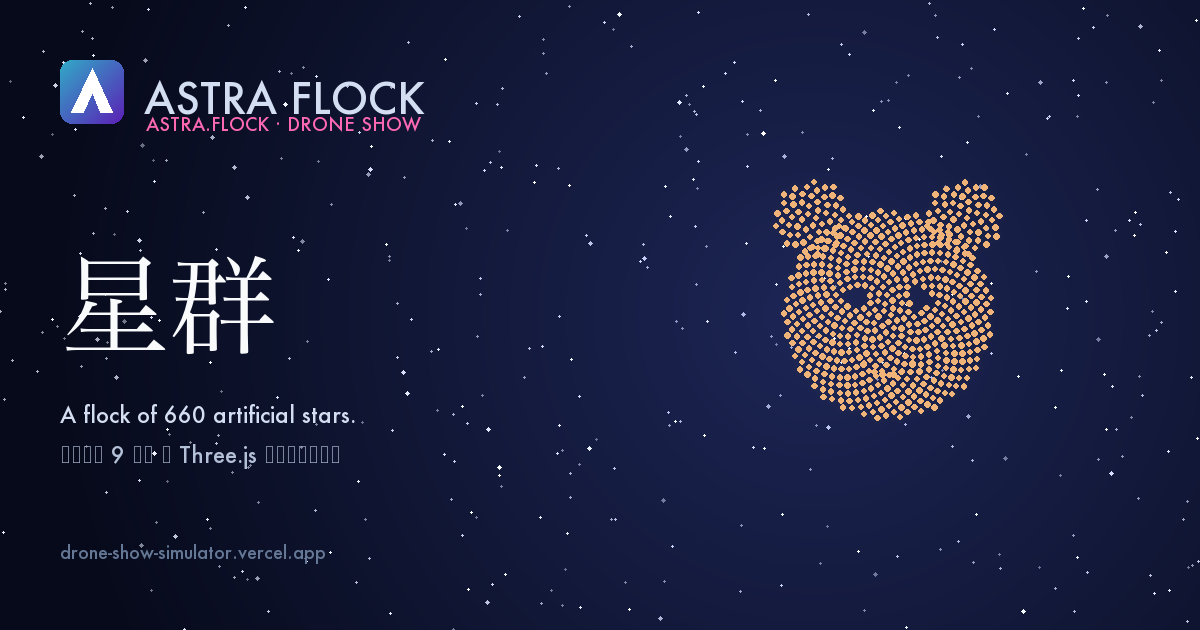
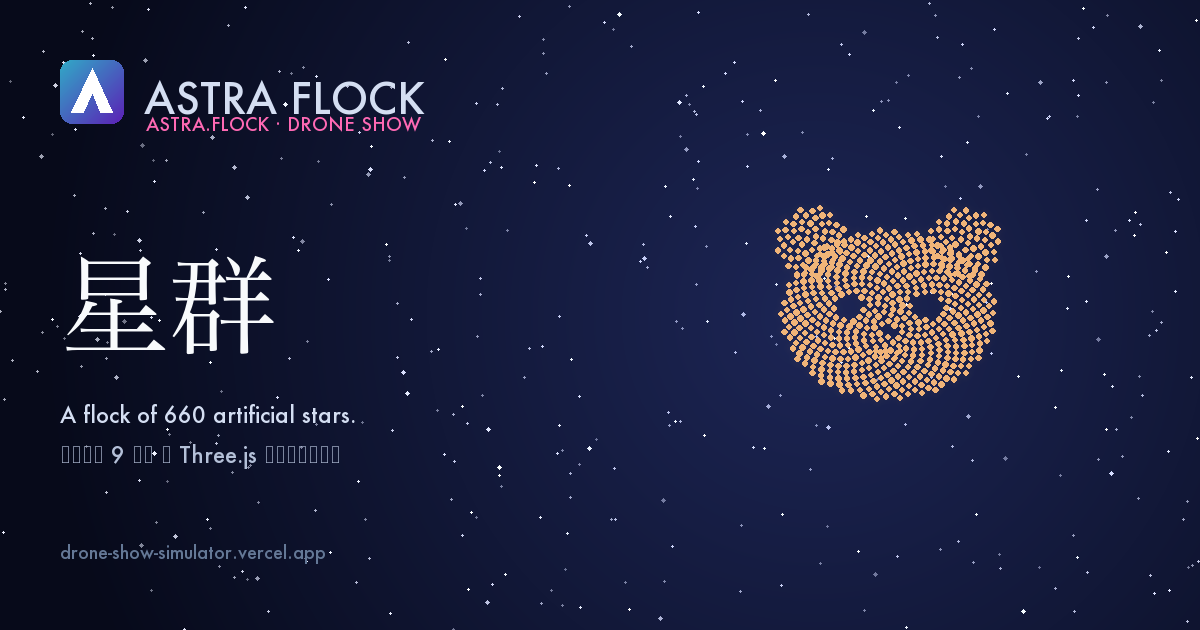
feat(bear): Rilakkuma-style wide oval face + spaced big eyes + tiny nose + M-mouth
- fBear を横長楕円ヘッド (rx=48, ry=38) に変更。円ではなく幅 > 高さに
  することで Rilakkuma 風のずんぐり感を再現
- 目のボイドを左右に離し (cx=±16)、r=5.5 に拡大 (間隔を広く大きく)
- 鼻の小さなドットボイド (r=2.5) を中央下に追加
- 耳を大型化 (r=15) + 位置を外寄り (cx=±32) に移動
- 口を M 字型に (2 つの小さな v が並ぶ形、6 点)
- OG 画像も新しい Rilakkuma 熊に差し替え
- choreography プレビューは window.AstraFlock 経由で共有されるため自動追従

Changed region(s): [[0.6475, 0.2714, 0.8325, 0.6635]]

diff --git a/formations.js b/formations.js
@@ -140,22 +140,27 @@
     return out;
   }
   function fBear(n) {
-    // Kawaii bear face: round head + small eye dots (voids) + curved smile.
+    // Rilakkuma-style kawaii bear face: wide oval head + rounded ears +
+    // big eye dots (voids) + tiny nose void + subtle M-shaped mouth drones.
     const out = new Float32Array(n * 3);
-    const head = { cx: 0, cy: 0, r: 42 };
+    // Head is an ELLIPSE (wider than tall) for that signature round-oval silhouette
+    const head = { cx: 0, cy: 0, rx: 48, ry: 38 };
     const voids = [
-      { cx: -12, cy: 6, r: 4 },
-      { cx:  12, cy: 6, r: 4 },
+      { cx: -16, cy: 4,  r: 5.5 }, // left eye (big, well-spaced)
+      { cx:  16, cy: 4,  r: 5.5 }, // right eye
+      { cx:   0, cy: -6, r: 2.5 }, // tiny nose dot
     ];
     const ears = [
-      { cx: -28, cy: 36, r: 14 },
-      { cx:  28, cy: 36, r: 14 },
+      { cx: -32, cy: 30, r: 15 },  // larger, wider-positioned
+      { cx:  32, cy: 30, r: 15 },
     ];
+    // M-shaped mouth under the nose (6 points, two tiny v's)
     const mouth = [
-      { x: -9, y: -18 }, { x: -5, y: -21 }, { x: -2, y: -22 },
-      { x:  2, y: -22 }, { x:  5, y: -21 }, { x:  9, y: -18 },
+      { x: -5, y: -15 }, { x: -3, y: -18 }, { x: -1, y: -15 },
+      { x:  1, y: -15 }, { x:  3, y: -18 }, { x:  5, y: -15 },
     ];
-    const headArea = Math.PI * head.r * head.r;
+    // Ellipse area: π·rx·ry
+    const headArea = Math.PI * head.rx * head.ry;
     const voidArea = voids.reduce((s, v) => s + Math.PI * v.r * v.r, 0);
     const earArea  = Math.PI * ears[0].r * ears[0].r;
     const fillableHead = Math.max(0, headArea - voidArea);
@@ -166,14 +171,15 @@
     const nEar2  = remaining - nHead - nEar1;
     const GOLDEN = 2.399963229728653;
     let idx = 0;
+    // Head: Fibonacci unit disc → mapped to ellipse via (rx,ry) scaling
     const HEAD_SAMPLES = Math.ceil(nHead * 1.2);
     let placed = 0;
     for (let k = 0; k < HEAD_SAMPLES && placed < nHead; k++) {
       const t = (k + 0.5) / HEAD_SAMPLES;
       const theta = k * GOLDEN;
-      const rr = Math.sqrt(t) * head.r;
-      const px = rr * Math.cos(theta);
-      const py = rr * Math.sin(theta);
+      const r = Math.sqrt(t);
+      const px = r * Math.cos(theta) * head.rx;
+      const py = r * Math.sin(theta) * head.ry;
       let inVoid = false;
       for (const v of voids) {
         if (Math.hypot(px - v.cx, py - v.cy) < v.r) { inVoid = true; break; }
